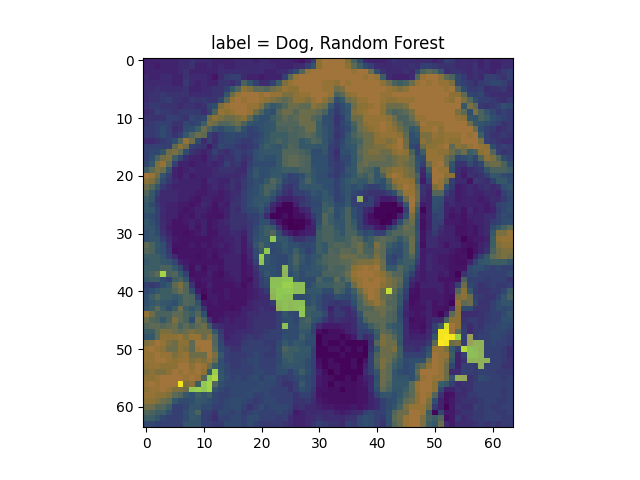
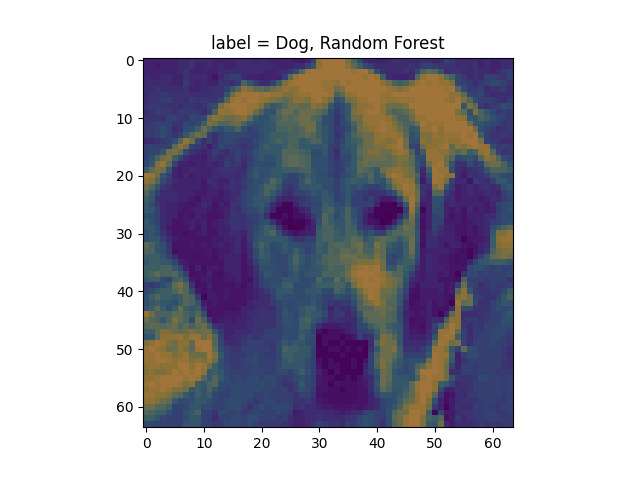
sad

diff --git a/2f/Dogs/main.py b/2f/Dogs/main.py
@@ -147,7 +147,7 @@ def main(data):
     y_pred = kmeans.predict(data)
     '''
     num_runs = 1
-    num_cluster_list = range(2, 10)
+    num_cluster_list = range(15, 16)
     silhouette = np.zeros([num_runs, len(num_cluster_list)])
     calinski = np.zeros([num_runs, len(num_cluster_list)])
     davies = np.zeros([num_runs, len(num_cluster_list)])
@@ -173,6 +173,7 @@ def main(data):
             plot_list = np.zeros(4096)
             for index in indexes:
                 plot_list[index]=y_pred[index]
+            plt.figure()
             plt.imshow(plot_list.reshape(64,64).T)
             #plot_pic(pics[index_min], i=index_min)
             plt.show()
@@ -276,4 +277,4 @@ if __name__ == '__main__':
     np_labels = np.array(label).flatten()
 
     dogs, label_dogs, cats, label_cats = separate_data(data, label)
-    main(cats)
+    main(dogs)

diff --git a/2c/main.py b/2c/main.py
@@ -125,7 +125,7 @@ def run_1b(data, label):
     np_labels = np.array(label).flatten()
 
     num_runs = 100
-    threshold = 0.5
+    threshold = 0.8
 
     method = ['Logistic Regression', 'Random Forest', 'Linear svc']
 
